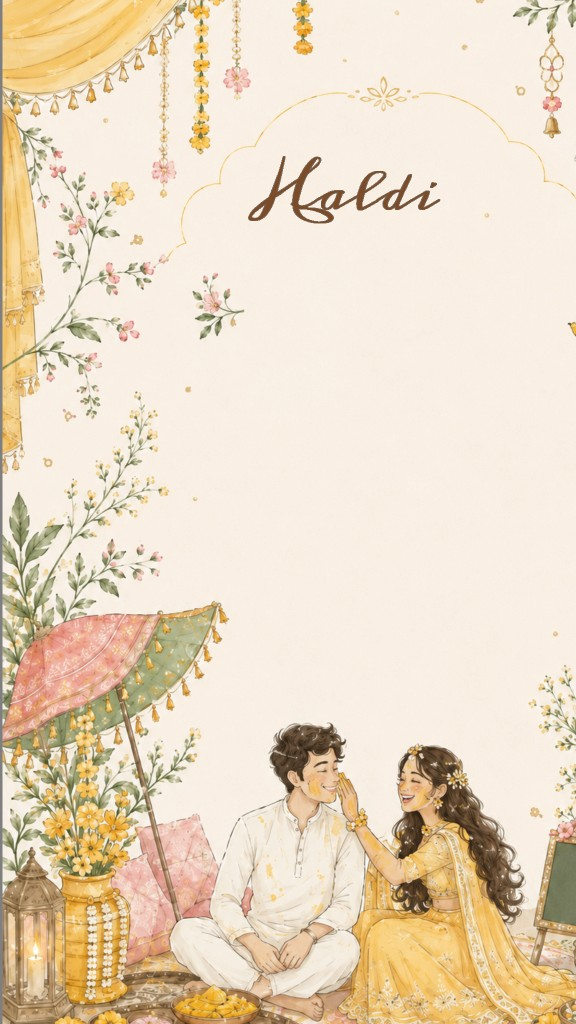
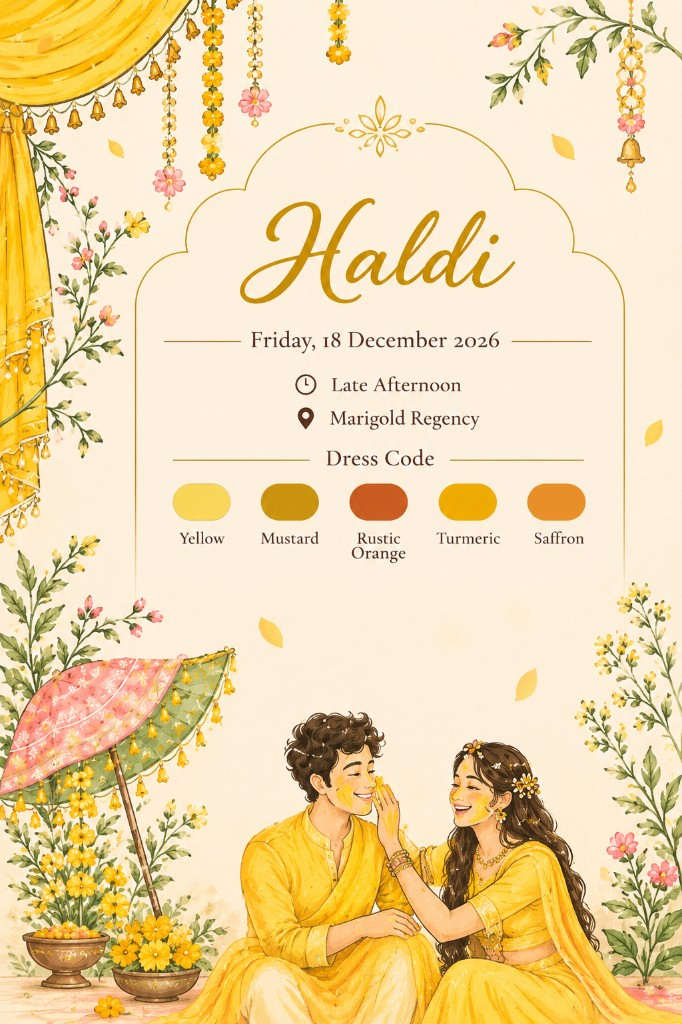
Use the finished Haldi card and leave the extra wording off it.

diff --git a/src/sections/home/components/illustrated-invite.tsx b/src/sections/home/components/illustrated-invite.tsx
@@ -100,14 +100,6 @@ export function IllustratedInvite() {
   const ceremonyMap = generateMapLink(WEDDING_CONFIG.venue.ceremony.mapQuery);
   const stayMap = generateMapLink(WEDDING_CONFIG.venue.reception.mapQuery);
 
-  const haldiShades = [
-    { name: t('invite.shade-yellow'), color: '#F4D35E' },
-    { name: t('invite.shade-mustard'), color: '#C69214' },
-    { name: t('invite.shade-orange'), color: '#C45C26' },
-    { name: t('invite.shade-turmeric'), color: '#E0A106' },
-    { name: t('invite.shade-saffron'), color: '#E08A2F' },
-  ];
-
   const events = [
     {
       title: t('invite.haldi'),
@@ -115,11 +107,11 @@ export function IllustratedInvite() {
       when: t('invite.late-afternoon'),
       image: WEDDING_CONFIG.art.haldi,
       petal: 'linear-gradient(135deg, #f6d36a, #e08a2f)',
-      paintedTitle: true,
+      artworkOnly: true,
       copyTop: '29%',
       copyLeft: '12%',
       copyRight: '12%',
-      shades: haldiShades,
+      shades: [] as { name: string; color: string }[],
       dress: '',
       lines: [] as string[],
     },
@@ -129,7 +121,7 @@ export function IllustratedInvite() {
       when: t('invite.evening'),
       image: WEDDING_CONFIG.art.sangeet,
       petal: 'linear-gradient(135deg, #f7c3d2, #c45c7a)',
-      paintedTitle: false,
+      artworkOnly: false,
       copyTop: '22%',
       copyLeft: '30%',
       copyRight: '6%',
@@ -143,7 +135,7 @@ export function IllustratedInvite() {
       when: t('invite.morning'),
       image: WEDDING_CONFIG.art.vidhi,
       petal: 'linear-gradient(135deg, #f3b0c4, #c44766)',
-      paintedTitle: false,
+      artworkOnly: false,
       copyTop: '18%',
       copyLeft: '14%',
       copyRight: '14%',
@@ -157,7 +149,7 @@ export function IllustratedInvite() {
       when: t('invite.afternoon'),
       image: WEDDING_CONFIG.art.mangal,
       petal: 'linear-gradient(135deg, #f6d98a, #c69214)',
-      paintedTitle: false,
+      artworkOnly: false,
       copyTop: '26%',
       copyLeft: '18%',
       copyRight: '10%',
@@ -485,26 +477,19 @@ export function IllustratedInvite() {
                     }}
                   />
                 ))}
+                {item.artworkOnly ? null : (
                 <div
-                  className={`pointer-events-none absolute z-10 text-center ${
-                    item.paintedTitle
-                      ? 'rounded-2xl bg-[#fbf6ee] px-3 py-3 shadow-[0_8px_24px_rgba(90,50,20,0.08)]'
-                      : ''
-                  }`}
+                  className="pointer-events-none absolute z-10 text-center"
                   style={{
                     top: item.copyTop,
                     left: item.copyLeft,
                     right: item.copyRight,
                   }}
                 >
-                  {item.paintedTitle ? null : (
-                    <h3 className="font-script text-[2.7rem] leading-none text-[#6b2d3c]">
-                      {item.title}
-                    </h3>
-                  )}
-                  <p
-                    className={`font-serif text-base text-[#4d3b32] ${item.paintedTitle ? '' : 'mt-1'}`}
-                  >
+                  <h3 className="font-script text-[2.7rem] leading-none text-[#6b2d3c]">
+                    {item.title}
+                  </h3>
+                  <p className="mt-1 font-serif text-base text-[#4d3b32]">
                     {item.date}
                   </p>
                   <p className="mt-1 text-[10px] uppercase tracking-[0.18em] text-[#a68456]">
@@ -547,6 +532,7 @@ export function IllustratedInvite() {
                     </p>
                   )}
                 </div>
+                )}
               </article>
             ))}
           </div>
